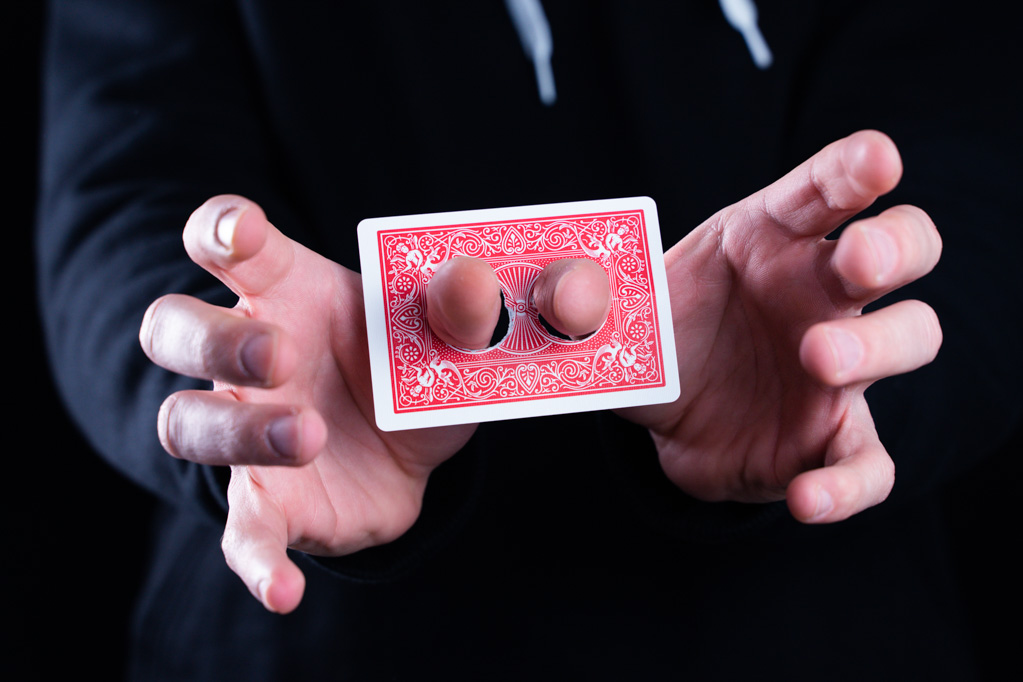
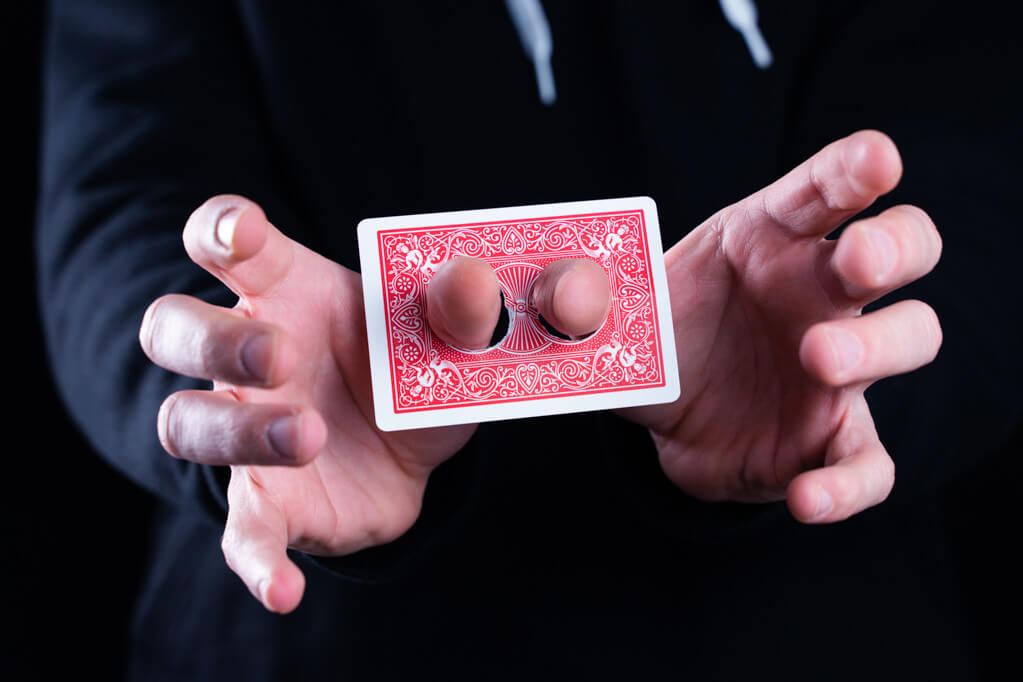
Img optimizadas y formulario
Se optimizaron parte de las img de los productos y se generó dinámicamente con PHP campo del form.

Changed region(s): [[0.3636, 0.3079, 0.6364, 0.585]]

diff --git a/css/mobile.css b/css/mobile.css
@@ -57,6 +57,7 @@ h1 {
 h2 {
     --bs--text: center;
     font-size: 1.6rem;
+    width: 100%;
 }
 
 h3 {
@@ -369,13 +370,16 @@ label .form-label {
     margin: 1.2rem auto;
     text-align: center;
     line-height: 2.5rem;
+  
 }
 
 .form-label {
-    margin-bottom: 2rem;
-    padding: 0.5rem;
+   /* margin-bottom: 2rem;
+    
+     width: 250px;
+    */
     border-radius: 5px;
-    width: 250px;
+    padding: 0.5rem;
 }
 
 .datos {
@@ -384,7 +388,7 @@ label .form-label {
 }
 
 label {
-    font-size: 1.3rem;
+    font-size: 1.2rem;
     display: inline-block;
 }
 

diff --git a/css/tablet.css b/css/tablet.css
@@ -24,9 +24,7 @@ h3 {
 
 h2 {
     font-size: 2rem;
-
-
-
+    width: 80%;
 }
 
 h3 {

diff --git a/paginas/contacto.php b/paginas/contacto.php
@@ -2,7 +2,9 @@
 
 ?>
 
-<section class="row">
+<section>
+    <div class="container py-3">
+        <!-- CÓDIGO ORIGINAL NO BORRAR POR AHORA
     <div class="container-fluid contacto__container">
 
         <h2 id="contacto" class="my-4 my-md-5 text-md-center py-3">Contacto</h2>
@@ -57,6 +59,73 @@
 
             <button type="submit" class="btn btn-primary form__btn">Enviar</button>
         </form>
-    </div>
+    </div> -->
 
+
+        <h2 class="my-4 text-md-center py-3">Contacto</h2>
+
+
+        <div class="row justify-content-center">
+            <div class="col-lg-10 col-md-12">
+                <form method="POST" class="form justify-content-center" action="enviar__datos.php">
+                    <div class="row">
+                        <div class="col-12 col-md-6 mb-3">
+                            <label for="nombre" class="form-label datos">Nombre *</label>
+                            <input type="text" class="form-control" id="nombre" name="nombre" aria-describedby="nombre" placeholder="Ingresá tu nombre" required>
+                        </div>
+
+                        <div class="col-12 col-md-6 mb-3">
+                            <label for="apellido" class="form-label datos">Apellido *</label>
+                            <input type="text" class="form-control" id="apellido" name="apellido" aria-describedby="apellido" placeholder="Ingresá tu apellido" required>
+                        </div>
+
+                        <div class="col-12 col-md-6 mb-3">
+                            <select class="form-select" id="anio__nacimiento" name="anio__nacimiento" required>
+
+                                <option value=""> Año de nacimiento: * </option>
+
+                                <!--Año de nacimiento generado en forma dinámica con PHP -->
+
+                                <?php for ($i = 1965; $i <= 2018; $i++) { ?>
+
+                                    <option> <?= $i ?></option>
+
+                                <?php } ?>
+                            </select>
+                        </div>
+
+                        <div class="col-12 col-md-6 mb-3">
+                            <label for="exampleInputEmail1" class="form-label datos">Email *</label>
+                            <input type="email" class="form-control" id="email" name="email" aria-describedby="email" placeholder="Ingresá tu email" required>
+                        </div>
+
+                        <div class="col-12 col-md-6 mb-3">
+                            <label for="exampleInputEmail1" class="form-label datos">Teléfono *</label>
+                            <input type="number" class="form-control" id="telefono" name="telefono" aria-describedby="telefono" placeholder="Número de teléfono" required>
+                        </div>
+                    </div>
+
+                    <div id="opciones">
+                        <div class="col-12 col-md-6 mb-3">
+                            <label for="magiaFav" class="form-label datos">Tipo de magia *</label>
+                            <select class="form-select" name="magiaFav" id="magiaFav">
+                                <option value="1">Close up</option>
+                                <option value="2">Escapismo</option>
+                                <option value="3">Manipulación</option>
+                                <option value="4">Magia de escenario</option>
+                            </select>
+                        </div>
+                    </div>
+
+                    <label for="comentarios" class="form-label"> </label>
+
+                    <div class="container__form__textarea">
+                        <textarea id="comentarios" name="comentarios" placeholder="Escribí aquí tu consulta o comentario *" rows="3" required></textarea>
+                    </div>
+
+                    <button type="submit" class="btn btn-primary form__btn">Enviar</button>
+                </form>
+            </div>
+        </div>
+    </div>
 </section>

diff --git a/libraries/misProductos.php b/libraries/misProductos.php
@@ -31,7 +31,7 @@ function mostrarCatalogoCompleto(): array
             "creador" => "Jack Wilder",
             "marca" => "Theory11",
             "formato" => "Físico",
-            "img" => "encuentra__a__la__dama.jpg",
+            "img" => "encuentra__a__la__dama.png",
             "precio" => 5599
         ],
 
@@ -124,7 +124,7 @@ function mostrarCatalogoCompleto(): array
             "creador" => "Theory11",
             "marca" => "Theory11",
             "formato" => "Físico",
-            "img" => "hp__cartas.jpg",
+            "img" => "hp__cartas.png",
             "precio" => 5090
         ],
 
@@ -206,6 +206,7 @@ function devolverDatosProducto(string $rama): array
     // Cómo pasarlo a operador ternario??
 
    if($rama =="todos"){
+
         return mostrarCatalogoCompleto();
     }
 

diff --git a/enviar__datos.php b/enviar__datos.php
@@ -1,0 +1,28 @@
+<?php
+
+// Variables que obtenrán datos del usuario del formulario
+
+$nombre = $_POST["nombre"];
+$apellido = $_POST["apellido"];
+$mail = $_POST["email"];
+$telefono = $_POST["telefono"];
+$comentarios = $_POST["comentarios"];
+
+echo "<pre>";
+print_r($_POST);
+echo "</pre>";
+
+?>
+
+<!DOCTYPE html>
+
+<html lang="es">
+<div class="container justify-content-center">
+    <h1 class="text-sm-start text-md-center">Datos del usuario obtenidos</h1>
+
+<?php 
+echo "<p>". $nombre;
+
+?>
+</div>
+</html>

diff --git a/index.php b/index.php
@@ -202,7 +202,7 @@ if (!(array_key_exists($pagina, $pagsValidas))) {
                             <li>Historia</li>
                         </a>
 
-                        <a href="#productos">
+                        <a href="index.php?pag=productos&rama=todos">
                             <li>Productos</li>
                         </a>
 
